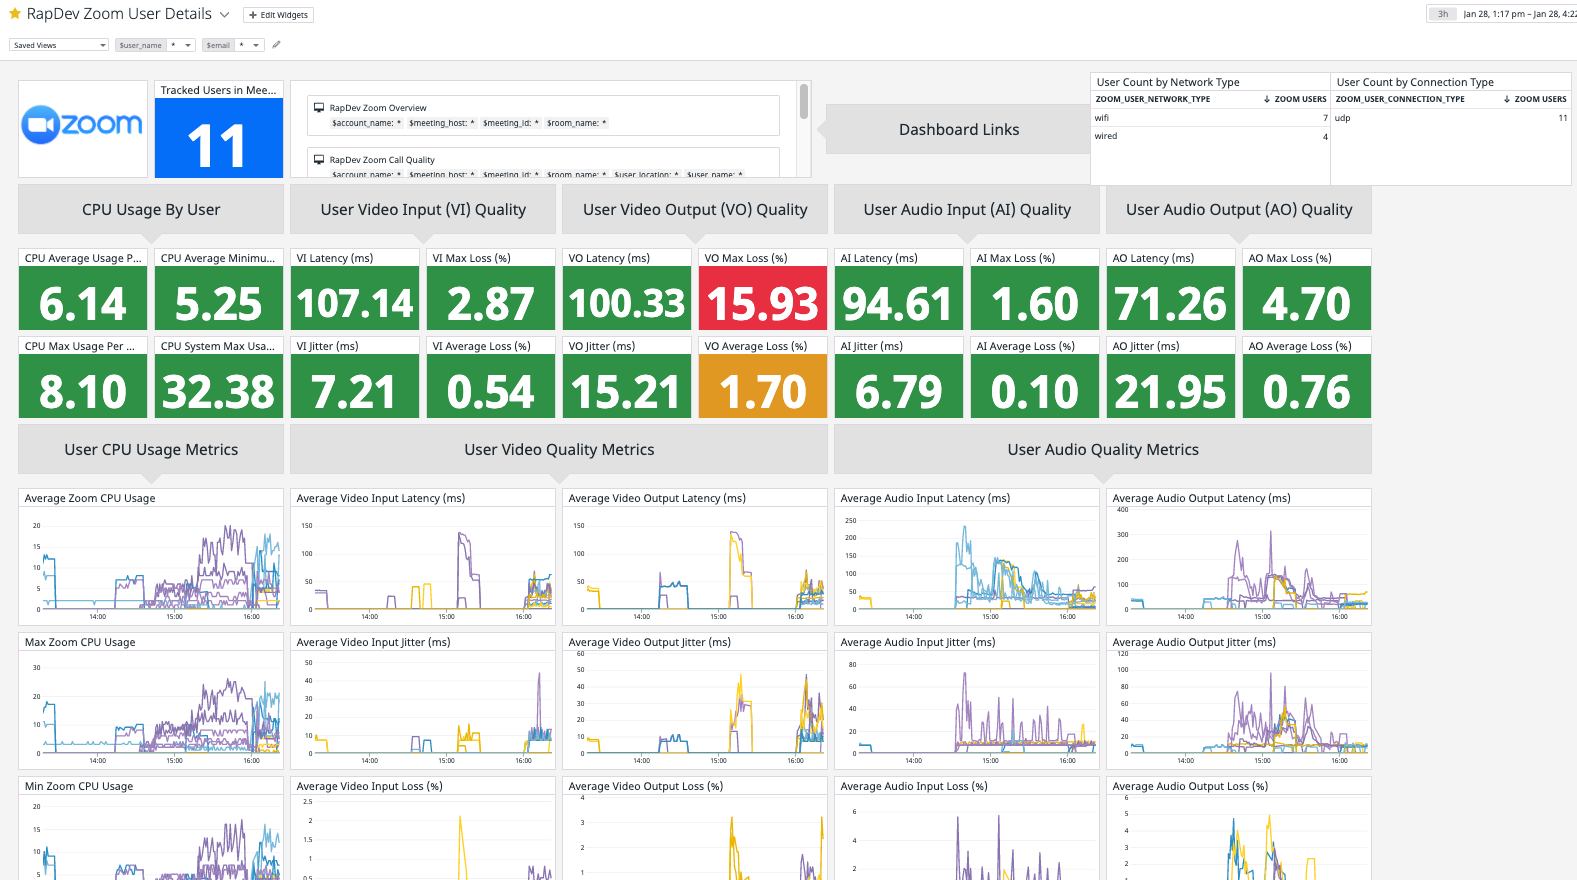
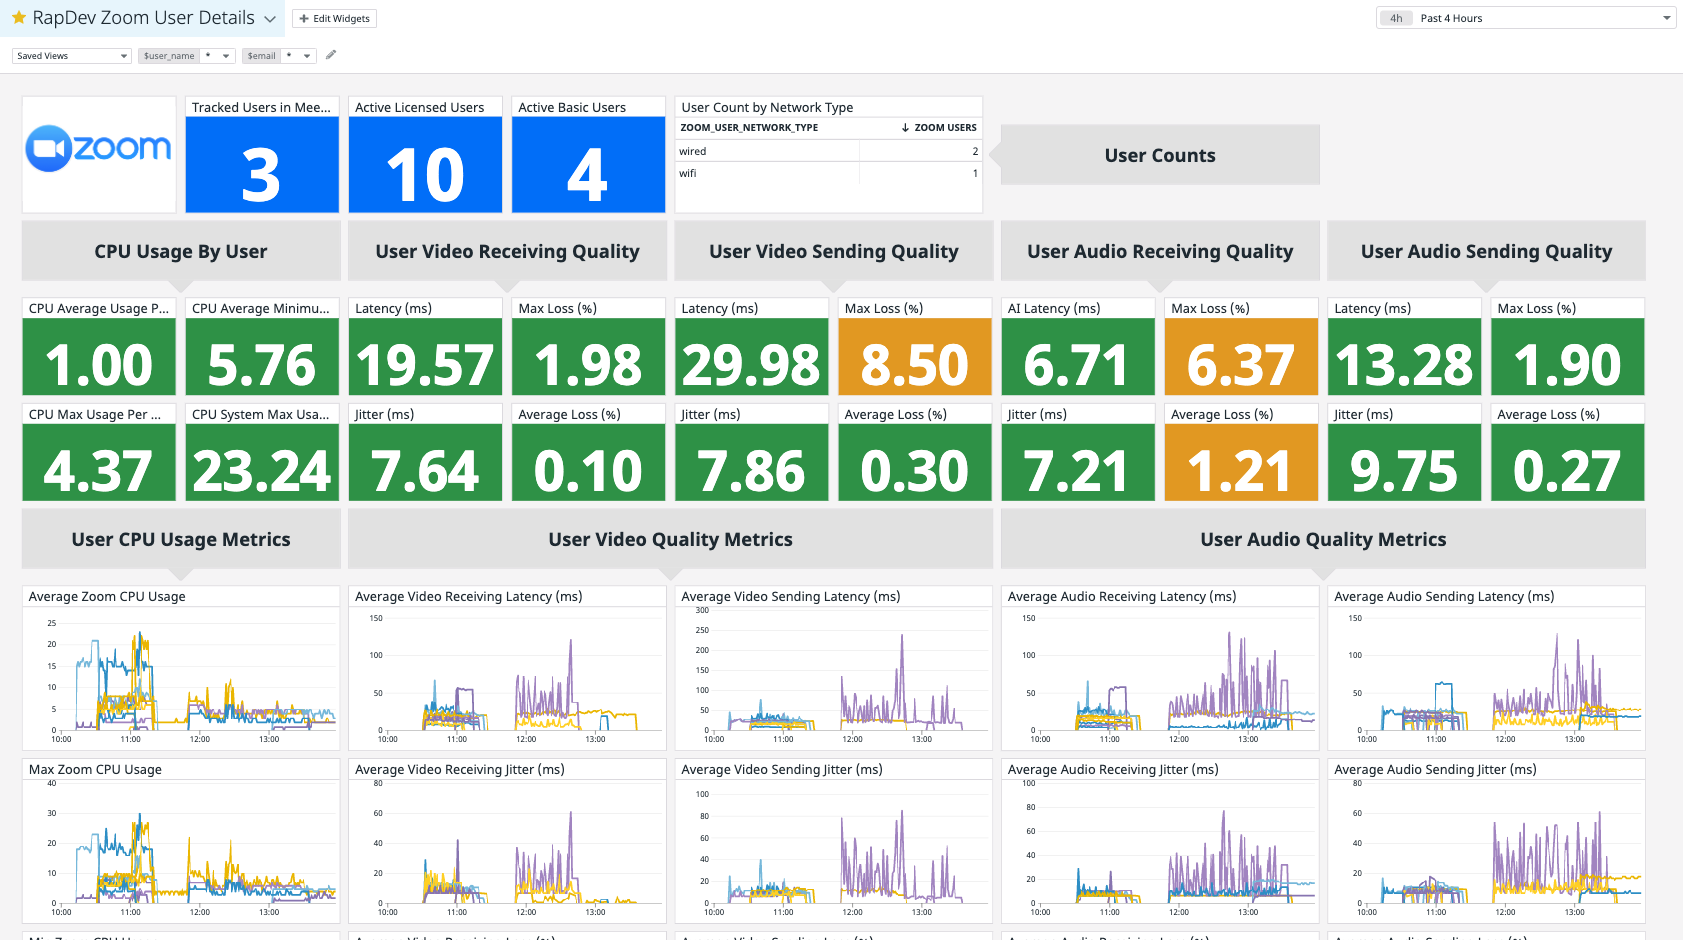
Add Licensed User Counts (#101)
* Add Licensed User Counts

* Delete user_details.png

* Delete meetings.png

* Add correct images

* Bump version to 3.0.0

diff --git a/rapdev_zoom/datadog_checks/rapdev_zoom/zoom.py b/rapdev_zoom/datadog_checks/rapdev_zoom/zoom.py
@@ -119,11 +119,6 @@ class ZoomCheck(AgentCheck):
         user_count = get_and_except_string(response, "total_records")
         metric_tags = self.tags.copy()
 
-        if user_count:
-            self.gauge("{}.{}.registered.count".format(self.metric_prefix, request_path),
-                       user_count,
-                       tags=metric_tags)
-
         while True:
             users = get_and_except_list(response, "users")
 
@@ -132,11 +127,23 @@ class ZoomCheck(AgentCheck):
 
                 user_email = get_and_except_string(user, "email")
                 user_timezone = get_and_except_string(user, "timezone")
+                user_type = user["type"]
 
                 if user_email:
                     metric_tags.append("zoom_user_mp_email:{}".format(user_email))
                 if user_timezone:
                     metric_tags.append("zoom_user_mp_timezone:{}".format(user_timezone))
+
+                if user_type == 1:
+                    metric_tags.append("zoom_user_account_type:basic")
+                elif user_type == 2:
+                    metric_tags.append("zoom_user_account_type:licensed")
+                elif user_type == 3:
+                    metric_tags.append("zoom_user_account_type:on-prem")
+
+                self.gauge("{}.users.active.count".format(self.metric_prefix),
+                    1,
+                    tags=metric_tags)
 
                 self.gauge("datadog.marketplace.{}".format(self.metric_prefix),
                            1,
@@ -557,7 +564,6 @@ class ZoomCheck(AgentCheck):
                     user_name = get_and_except_string(participant, "user_name")
                     domain = get_and_except_string(participant, "domain")
                     ip_address = get_and_except_string(participant, "ip_address")
-                    connection_type = get_and_except_string(participant, "connection_type")
                     data_center = get_and_except_string(participant, "data_center")
                     network_type = get_and_except_string(participant, "network_type")
                     user_id = get_and_except_string(participant, "id")
@@ -576,15 +582,12 @@ class ZoomCheck(AgentCheck):
                             metric_tags.append("zoom_user_domain:{}".format(domain))
                         if ip_address:
                             metric_tags.append("zoom_user_ip:{}".format(ip_address))
-                        if connection_type:
-                            metric_tags.append("zoom_user_connection_type:{}".format(connection_type))
                         if data_center:
                             metric_tags.append("zoom_user_data_center:{}".format(data_center))
                         if network_type:
                             metric_tags.append("zoom_user_network_type:{}".format(network_type))
                         if user_email:
                             metric_tags.append("zoom_user_email:{}".format(user_email))
-
                         if self.collect_usernames:
                             metric_tags.append("zoom_user_name:{}".format(user_name))
 

diff --git a/rapdev_zoom/datadog_checks/rapdev_zoom/__about__.py b/rapdev_zoom/datadog_checks/rapdev_zoom/__about__.py
@@ -1,3 +1,3 @@
 # (C) RapDev, Inc. 2020-present
 # All rights reserved
-__version__ = '2.0.1'
+__version__ = '3.0.0'

diff --git a/rapdev_zoom/CHANGELOG.md b/rapdev_zoom/CHANGELOG.md
@@ -1,5 +1,11 @@
 # CHANGELOG - rapdev_zoom
 
+## 3.0.0 / 2021-02-17
+
+* [Removed] The registered users count metric.
+* [Added] The active users counts tagged by account type (e.g. basic, licensed, etc...).
+* [Removed] The user connection type tag.
+
 ## 2.0.1 / 2021-02-05
 
 * [Modified] Audio/Video Widget Titles to align with Sending/Receiving metrics, rather than input/output
@@ -11,4 +17,3 @@
 * [Added] added CPU Metric ingestion.
 * [Added] added users_to_track flag that allows you to specify a list of users for which the agent will only send metrics for.
 
-   

diff --git a/rapdev_zoom/README.md b/rapdev_zoom/README.md
@@ -43,7 +43,7 @@ You must have the Datadog Agent installed and running. Additionally, you need to
 ### Installation
 
 ```
-sudo ‐u dd‐agent datadog‐agent integration install --third-party datadog-rapdev_zoom==2.0.0
+sudo ‐u dd‐agent datadog‐agent integration install --third-party datadog-rapdev_zoom==3.0.0
 ``` 
 
 ### Configuration
